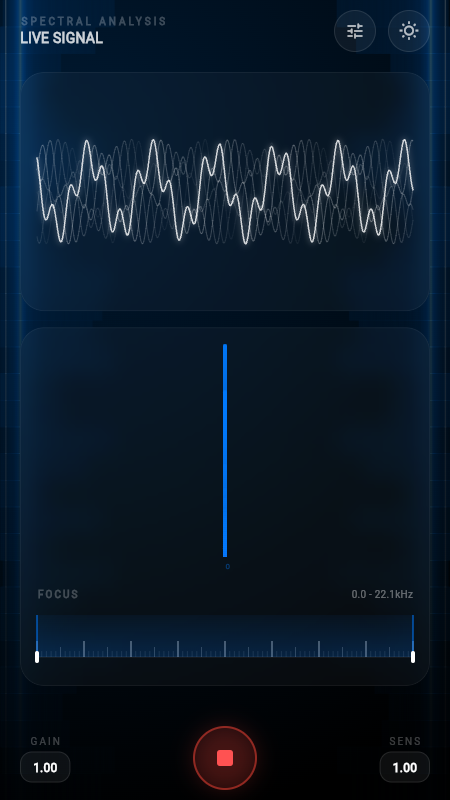
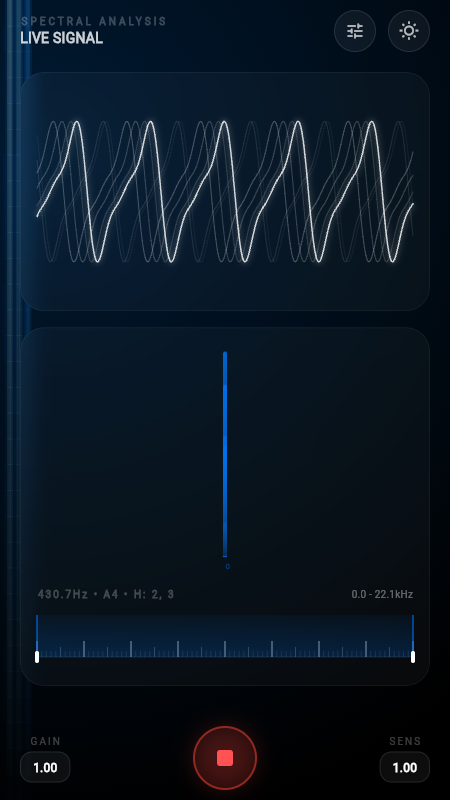
Fix FFT centering issue and implement tone detection
- Updated FftService to use Hanning windowing and discard redundant conjugates, fixing the mirrored spectrum display.
- Implemented primary tone detection including frequency, musical note mapping, and harmonic identification.
- Replaced the static "FOCUS" label in the UI with dynamic tone information when a signal is detected.
- Enhanced Demo Mode to generate a multi-harmonic signal for better verification.
- Updated project screenshots to reflect the new UI state.

diff --git a/lib/main.dart b/lib/main.dart
@@ -108,6 +108,7 @@ class _SpectralHomePageState extends State<SpectralHomePage> with TickerProvider
   List<double> _currentFftData = [];
   final List<List<double>> _fftHistory = [];
   static const int _maxHistory = 40;
+  ToneInfo? _detectedTone;
   bool _isCapturing = false;
   bool _isDemoMode = false;
   Timer? _demoTimer;
@@ -148,6 +149,7 @@ class _SpectralHomePageState extends State<SpectralHomePage> with TickerProvider
           final fft = _fftService.processAudioData(data);
           final adjustedFft = fft.map((x) => x * _sensitivity).toList();
           _currentFftData = adjustedFft;
+          _detectedTone = _fftService.detectPrimaryTone(adjustedFft, 44100);
           if (adjustedFft.isNotEmpty) {
             _fftHistory.insert(0, adjustedFft);
             if (_fftHistory.length > _maxHistory) {
@@ -163,10 +165,18 @@ class _SpectralHomePageState extends State<SpectralHomePage> with TickerProvider
     _demoTimer?.cancel();
     _demoTimer = Timer.periodic(const Duration(milliseconds: 50), (timer) {
       final samples = Float64List(512);
-      final phase = DateTime.now().millisecondsSinceEpoch / 1000.0 * 2 * math.pi;
+      final now = DateTime.now().millisecondsSinceEpoch / 1000.0;
+      // 440Hz Fundamental (A4)
+      const fundamental = 440.0;
+      final phase = now * 2 * math.pi * fundamental;
+
       for (var i = 0; i < 512; i++) {
-        samples[i] = (0.4 * math.sin(phase + (i / 512.0) * 12 * math.pi) +
-                     0.2 * math.sin(phase * 2.5 + (i / 512.0) * 45 * math.pi)) * _gain;
+        final t = i / 44100.0;
+        samples[i] = (
+          0.6 * math.sin(phase + t * 2 * math.pi * fundamental) + // Fundamental
+          0.3 * math.sin(2 * (phase + t * 2 * math.pi * fundamental)) + // 2nd Harmonic
+          0.1 * math.sin(3 * (phase + t * 2 * math.pi * fundamental))    // 3rd Harmonic
+        ) * _gain;
       }
       if (mounted) {
         setState(() {
@@ -179,6 +189,7 @@ class _SpectralHomePageState extends State<SpectralHomePage> with TickerProvider
           final fft = _fftService.processAudioData(samples);
           final adjustedFft = fft.map((x) => x * _sensitivity).toList();
           _currentFftData = adjustedFft;
+          _detectedTone = _fftService.detectPrimaryTone(adjustedFft, 44100);
           if (adjustedFft.isNotEmpty) {
             _fftHistory.insert(0, adjustedFft);
             if (_fftHistory.length > _maxHistory) {
@@ -470,13 +481,27 @@ class _SpectralHomePageState extends State<SpectralHomePage> with TickerProvider
   }
 
   Widget _buildFrequencyFocusSlider() {
+    String focusLabel = "FOCUS";
+    if (_detectedTone != null) {
+      final t = _detectedTone!;
+      focusLabel = "${t.frequency.toStringAsFixed(1)}Hz • ${t.note}";
+      if (t.harmonics.isNotEmpty) {
+        focusLabel += " • H: ${t.harmonics.join(', ')}";
+      }
+    }
+
     return Padding(
       padding: const EdgeInsets.only(top: 10),
       child: Column(
         children: [
           Row(
             children: [
-              const Text("FOCUS", style: TextStyle(fontSize: 10, letterSpacing: 2, color: Colors.white24, fontWeight: FontWeight.bold)),
+              Text(
+                focusLabel,
+                style: const TextStyle(fontSize: 10, letterSpacing: 2, color: Colors.white24, fontWeight: FontWeight.bold),
+                maxLines: 1,
+                overflow: TextOverflow.ellipsis,
+              ),
               const Spacer(),
               Text("${(_freqRange.start / 1000).toStringAsFixed(1)} - ${(_freqRange.end / 1000).toStringAsFixed(1)}kHz",
                   style: const TextStyle(fontSize: 10, color: Colors.white38)),

diff --git a/lib/src/core/fft_service.dart b/lib/src/core/fft_service.dart
@@ -1,5 +1,18 @@
 import 'dart:typed_data';
+import 'dart:math' as math;
 import 'package:fftea/fftea.dart';
+
+class ToneInfo {
+  final double frequency;
+  final String note;
+  final List<int> harmonics;
+
+  ToneInfo({
+    required this.frequency,
+    required this.note,
+    required this.harmonics,
+  });
+}
 
 class FftService {
   FFT? _cachedFft;
@@ -13,18 +26,94 @@ class FftService {
     if (sampleCount < 2) return [];
 
     // Cache FFT instance if the size hasn't changed.
-    // Precomputing tables is expensive.
     if (_cachedFft == null || _cachedSize != sampleCount) {
       _cachedFft = FFT(sampleCount);
       _cachedSize = sampleCount;
     }
 
     try {
-      final freq = _cachedFft!.realFft(samples);
-      return freq.magnitudes();
+      // Apply Hanning window to reduce spectral leakage
+      final window = Window.hanning(sampleCount);
+      final windowedSamples = Float64List(sampleCount);
+      for (int i = 0; i < sampleCount; i++) {
+        windowedSamples[i] = samples[i] * window[i];
+      }
+
+      final freq = _cachedFft!.realFft(windowedSamples);
+      // discardConjugates() fixes the mirroring issue by keeping 0 to Nyquist
+      return freq.discardConjugates().magnitudes();
     } catch (e) {
-      // In case of unexpected signal errors
       return [];
     }
+  }
+
+  /// Detects the primary tone and its harmonics.
+  ToneInfo? detectPrimaryTone(List<double> magnitudes, int sampleRate) {
+    if (magnitudes.isEmpty) return null;
+
+    // Find the peak, skipping DC (index 0)
+    double maxMag = 0;
+    int peakIndex = -1;
+    for (int i = 1; i < magnitudes.length; i++) {
+      if (magnitudes[i] > maxMag) {
+        maxMag = magnitudes[i];
+        peakIndex = i;
+      }
+    }
+
+    // Threshold to avoid detecting noise as a tone
+    if (peakIndex == -1 || maxMag < 0.5) return null;
+
+    // Calculate fundamental frequency
+    // N is (magnitudes.length - 1) * 2
+    final n = (magnitudes.length - 1) * 2;
+    final fundamentalFreq = peakIndex * sampleRate / n;
+
+    // Detect harmonics (check if there are peaks at multiples of peakIndex)
+    final harmonics = <int>[];
+    for (int h = 2; h <= 5; h++) {
+      int hIndex = peakIndex * h;
+      if (hIndex < magnitudes.length) {
+        // Check if there's a local peak around hIndex
+        int actualHIndex = hIndex;
+        double localMax = magnitudes[hIndex];
+        for (int neighbor = -2; neighbor <= 2; neighbor++) {
+          int idx = hIndex + neighbor;
+          if (idx >= 0 && idx < magnitudes.length) {
+            if (magnitudes[idx] > localMax) {
+               localMax = magnitudes[idx];
+               actualHIndex = idx;
+            }
+          }
+        }
+
+        // If the peak at actualHIndex is significant relative to the fundamental
+        if (magnitudes[actualHIndex] > maxMag * 0.1) {
+          harmonics.add(h);
+        }
+      }
+    }
+
+    return ToneInfo(
+      frequency: fundamentalFreq,
+      note: _frequencyToNote(fundamentalFreq),
+      harmonics: harmonics,
+    );
+  }
+
+  String _frequencyToNote(double freq) {
+    if (freq <= 0) return "";
+
+    final notes = ["C", "C#", "D", "D#", "E", "F", "F#", "G", "G#", "A", "A#", "B"];
+    // A4 = 440Hz is MIDI note 69
+    double midi = 12 * (math.log(freq / 440.0) / math.log(2)) + 69;
+    int midiRounded = midi.round();
+
+    if (midiRounded < 0) return "";
+
+    int octave = (midiRounded / 12).floor() - 1;
+    String noteName = notes[midiRounded % 12];
+
+    return "$noteName$octave";
   }
 }
